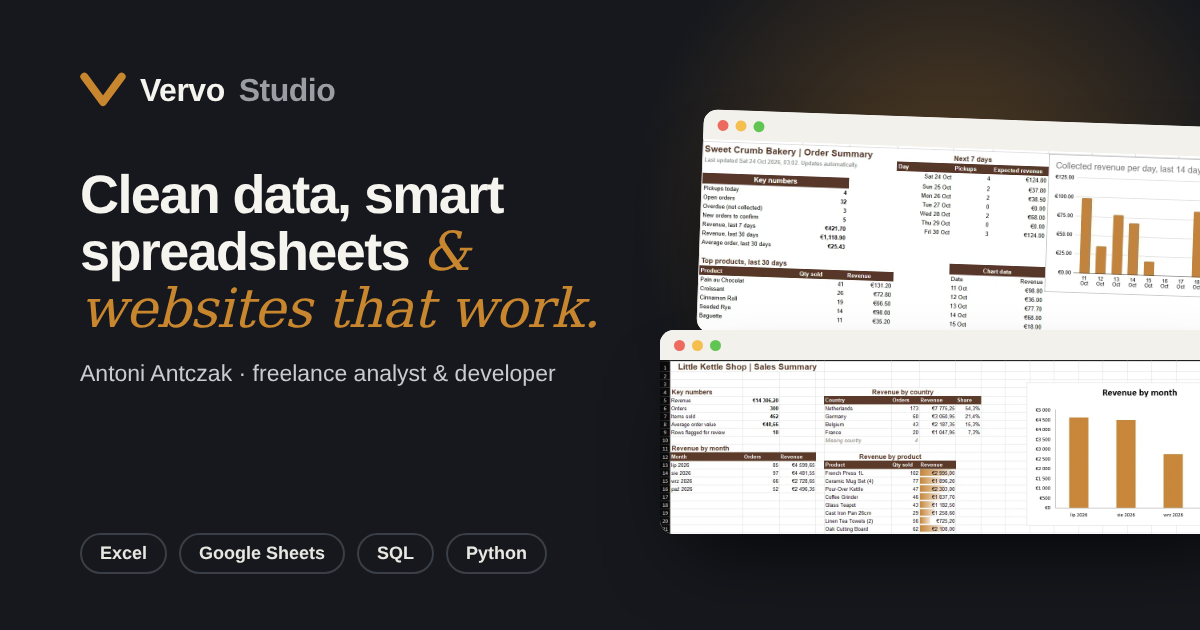
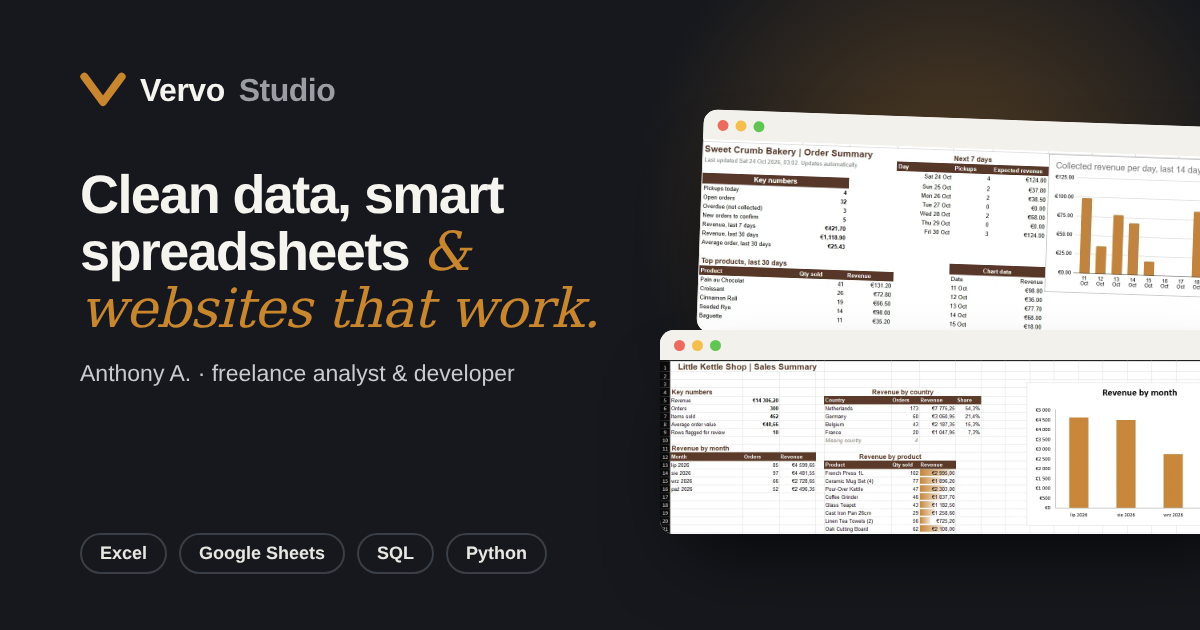
Show the name as Anthony A. across the site
Replace Antoni / Antoni Antczak with Anthony / Anthony A. in the hero,
about card, footer, page titles, schema.org data and all three
languages. The share image and the downloadable workbook's metadata
follow suit.

Claude-Session: https://claude.ai/code/session_01H9mBqurSj8QGbVvrrhhHnW

Changed region(s): [[0.0925, 0.573, 0.4625, 0.6032]]

diff --git a/src/data/hub-i18n.js b/src/data/hub-i18n.js
@@ -1,5 +1,5 @@
 // Treść strony głównej Vervo Studio w trzech językach (EN domyślny, PL, NL).
-// Ton osobisty: Antoni mówi w pierwszej osobie, Vervo Studio to marka. Bez myślników w roli pauzy.
+// Ton osobisty: Anthony mówi w pierwszej osobie, Vervo Studio to marka. Bez myślników w roli pauzy.
 export const LANGS = ['en', 'pl', 'nl'];
 export const DEFAULT_LANG = 'en';
 
@@ -47,9 +47,9 @@ export const T = {
   en: {
     meta: {
       ogLocale: 'en_US',
-      title: 'Antoni Antczak | Excel, Google Sheets & web freelancer | Vervo Studio',
+      title: 'Anthony A. | Excel, Google Sheets & web freelancer | Vervo Studio',
       description: 'Freelance data cleaning, Excel reports, Google Sheets automation and fast websites for small businesses. Business Analytics student, certified in SQL and Python.',
-      ogTitle: 'Antoni Antczak | Vervo Studio',
+      ogTitle: 'Anthony A. | Vervo Studio',
       ogDescription: 'Clean data, smart spreadsheets and websites that work. See the projects, the videos and the certificates.',
     },
     schemaDesc: 'Freelance data cleaning, spreadsheet automation and websites for small businesses.',
@@ -59,7 +59,7 @@ export const T = {
     hero: {
       available: 'Available for new projects',
       h1: 'Clean data, smart spreadsheets <em>and websites that work.</em>',
-      lede: 'Hi, I’m Antoni, a Business Analytics student who freelances as Vervo Studio. I clean up messy Excel files, build Google Sheets systems that run themselves and code fast websites for small businesses.',
+      lede: 'Hi, I’m Anthony, a Business Analytics student who freelances as Vervo Studio. I clean up messy Excel files, build Google Sheets systems that run themselves and code fast websites for small businesses.',
       proof: [
         { b: '300', t: 'orders cleaned in one project' },
         { b: '2', t: 'certificates in SQL and Python' },
@@ -141,7 +141,7 @@ export const T = {
     },
     about: {
       label: 'About',
-      h2: 'Hi, I’m Antoni',
+      h2: 'Hi, I’m Anthony',
       p: [
         'I study Business Analytics, which means I spend my days between data, numbers and the businesses behind them. Vervo Studio is how I put that to work for real clients.',
         'Most small businesses don’t need a big IT project. They need the spreadsheet to add up, the orders to stop getting lost and a website that brings in customers. That’s exactly the kind of work I enjoy.',
@@ -190,7 +190,7 @@ export const T = {
         consent: 'I agree to be contacted about my request.', submit: 'Send message',
       },
     },
-    footer: { tx: 'Vervo Studio is the freelance studio of Antoni Antczak. Data cleaning, spreadsheet automation and websites for small businesses.' },
+    footer: { tx: 'Vervo Studio is the freelance studio of Anthony A. Data cleaning, spreadsheet automation and websites for small businesses.' },
     formMsgs: {
       subject: 'New message from vervostudio.com',
       incomplete: 'Please complete the required fields and consent.',
@@ -203,9 +203,9 @@ export const T = {
   pl: {
     meta: {
       ogLocale: 'pl_PL',
-      title: 'Antoni Antczak | Excel, Arkusze Google i strony www | Vervo Studio',
+      title: 'Anthony A. | Excel, Arkusze Google i strony www | Vervo Studio',
       description: 'Porządkowanie danych w Excelu, raporty, automatyzacje w Arkuszach Google i szybkie strony dla małych firm. Student Business Analytics z certyfikatami z SQL i Pythona.',
-      ogTitle: 'Antoni Antczak | Vervo Studio',
+      ogTitle: 'Anthony A. | Vervo Studio',
       ogDescription: 'Czyste dane, mądre arkusze i strony, które działają. Zobacz projekty, nagrania i certyfikaty.',
     },
     schemaDesc: 'Porządkowanie danych, automatyzacje arkuszy i strony internetowe dla małych firm.',
@@ -215,7 +215,7 @@ export const T = {
     hero: {
       available: 'Przyjmuję nowe projekty',
       h1: 'Czyste dane, mądre arkusze <em>i strony, które działają.</em>',
-      lede: 'Cześć, jestem Antoni. Studiuję Business Analytics i jako Vervo Studio pomagam małym firmom: porządkuję chaotyczne pliki Excela, buduję w Arkuszach Google systemy, które działają same, i koduję szybkie strony internetowe.',
+      lede: 'Cześć, jestem Anthony. Studiuję Business Analytics i jako Vervo Studio pomagam małym firmom: porządkuję chaotyczne pliki Excela, buduję w Arkuszach Google systemy, które działają same, i koduję szybkie strony internetowe.',
       proof: [
         { b: '300', t: 'zamówień uporządkowanych w jednym projekcie' },
         { b: '2', t: 'certyfikaty z SQL i Pythona' },
@@ -297,7 +297,7 @@ export const T = {
     },
     about: {
       label: 'O mnie',
-      h2: 'Cześć, jestem Antoni',
+      h2: 'Cześć, jestem Anthony',
       p: [
         'Studiuję Business Analytics, czyli na co dzień siedzę między danymi, liczbami i firmami, które za nimi stoją. Vervo Studio to mój sposób, żeby wykorzystać to w pracy dla prawdziwych klientów.',
         'Większość małych firm nie potrzebuje wielkiego projektu IT. Potrzebuje, żeby arkusz się zgadzał, zamówienia przestały ginąć, a strona przyprowadzała klientów. To jest dokładnie ta praca, którą lubię.',
@@ -346,7 +346,7 @@ export const T = {
         consent: 'Zgadzam się na kontakt w sprawie mojego zapytania.', submit: 'Wyślij wiadomość',
       },
     },
-    footer: { tx: 'Vervo Studio to freelance’owe studio Antoniego Antczaka. Porządkowanie danych, automatyzacje arkuszy i strony dla małych firm.' },
+    footer: { tx: 'Vervo Studio to freelance’owe studio, które prowadzi Anthony A. Porządkowanie danych, automatyzacje arkuszy i strony dla małych firm.' },
     formMsgs: {
       subject: 'Nowa wiadomość ze strony vervostudio.com',
       incomplete: 'Uzupełnij wymagane pola i zgodę.',
@@ -359,9 +359,9 @@ export const T = {
   nl: {
     meta: {
       ogLocale: 'nl_NL',
-      title: 'Antoni Antczak | Excel, Google Sheets & websites | Vervo Studio',
+      title: 'Anthony A. | Excel, Google Sheets & websites | Vervo Studio',
       description: 'Freelance data opschonen, Excel-rapporten, automatisering in Google Sheets en snelle websites voor kleine bedrijven. Business Analytics-student met certificaten in SQL en Python.',
-      ogTitle: 'Antoni Antczak | Vervo Studio',
+      ogTitle: 'Anthony A. | Vervo Studio',
       ogDescription: 'Schone data, slimme spreadsheets en websites die werken. Bekijk de projecten, de video’s en de certificaten.',
     },
     schemaDesc: 'Freelance data opschonen, spreadsheet-automatisering en websites voor kleine bedrijven.',
@@ -371,7 +371,7 @@ export const T = {
     hero: {
       available: 'Beschikbaar voor nieuwe projecten',
       h1: 'Schone data, slimme spreadsheets <em>en websites die werken.</em>',
-      lede: 'Hoi, ik ben Antoni. Ik studeer Business Analytics en help als Vervo Studio kleine bedrijven: ik maak rommelige Excel-bestanden schoon, bouw systemen in Google Sheets die vanzelf draaien en programmeer snelle websites.',
+      lede: 'Hoi, ik ben Anthony. Ik studeer Business Analytics en help als Vervo Studio kleine bedrijven: ik maak rommelige Excel-bestanden schoon, bouw systemen in Google Sheets die vanzelf draaien en programmeer snelle websites.',
       proof: [
         { b: '300', t: 'bestellingen opgeschoond in één project' },
         { b: '2', t: 'certificaten in SQL en Python' },
@@ -453,7 +453,7 @@ export const T = {
     },
     about: {
       label: 'Over mij',
-      h2: 'Hoi, ik ben Antoni',
+      h2: 'Hoi, ik ben Anthony',
       p: [
         'Ik studeer Business Analytics, dus ik zit dagelijks tussen data, cijfers en de bedrijven daarachter. Met Vervo Studio zet ik dat in voor echte klanten.',
         'De meeste kleine bedrijven hebben geen groot IT-project nodig. Ze willen dat de spreadsheet klopt, dat bestellingen niet meer zoekraken en dat de website klanten oplevert. Precies dat soort werk vind ik leuk.',
@@ -502,7 +502,7 @@ export const T = {
         consent: 'Ik ga akkoord met contact over mijn aanvraag.', submit: 'Verstuur bericht',
       },
     },
-    footer: { tx: 'Vervo Studio is de freelance studio van Antoni Antczak. Data opschonen, spreadsheet-automatisering en websites voor kleine bedrijven.' },
+    footer: { tx: 'Vervo Studio is de freelance studio van Anthony A. Data opschonen, spreadsheet-automatisering en websites voor kleine bedrijven.' },
     formMsgs: {
       subject: 'Nieuw bericht via vervostudio.com',
       incomplete: 'Vul de verplichte velden en toestemming in.',

diff --git a/README.md b/README.md
@@ -2,7 +2,7 @@
 
 ## Strona główna (vervostudio.com)
 
-Osobista strona Antoniego / Vervo Studio pod zlecenia z Fiverr. Angielski jest pod `/`,
+Osobista strona Vervo Studio (Anthony A.) pod zlecenia z Fiverr. Angielski jest pod `/`,
 polski pod `/pl/`, niderlandzki pod `/nl/` (stary adres `/en/` przekierowuje na `/`).
 
 - Wszystkie teksty i lista projektów: `src/data/hub-i18n.js`.
